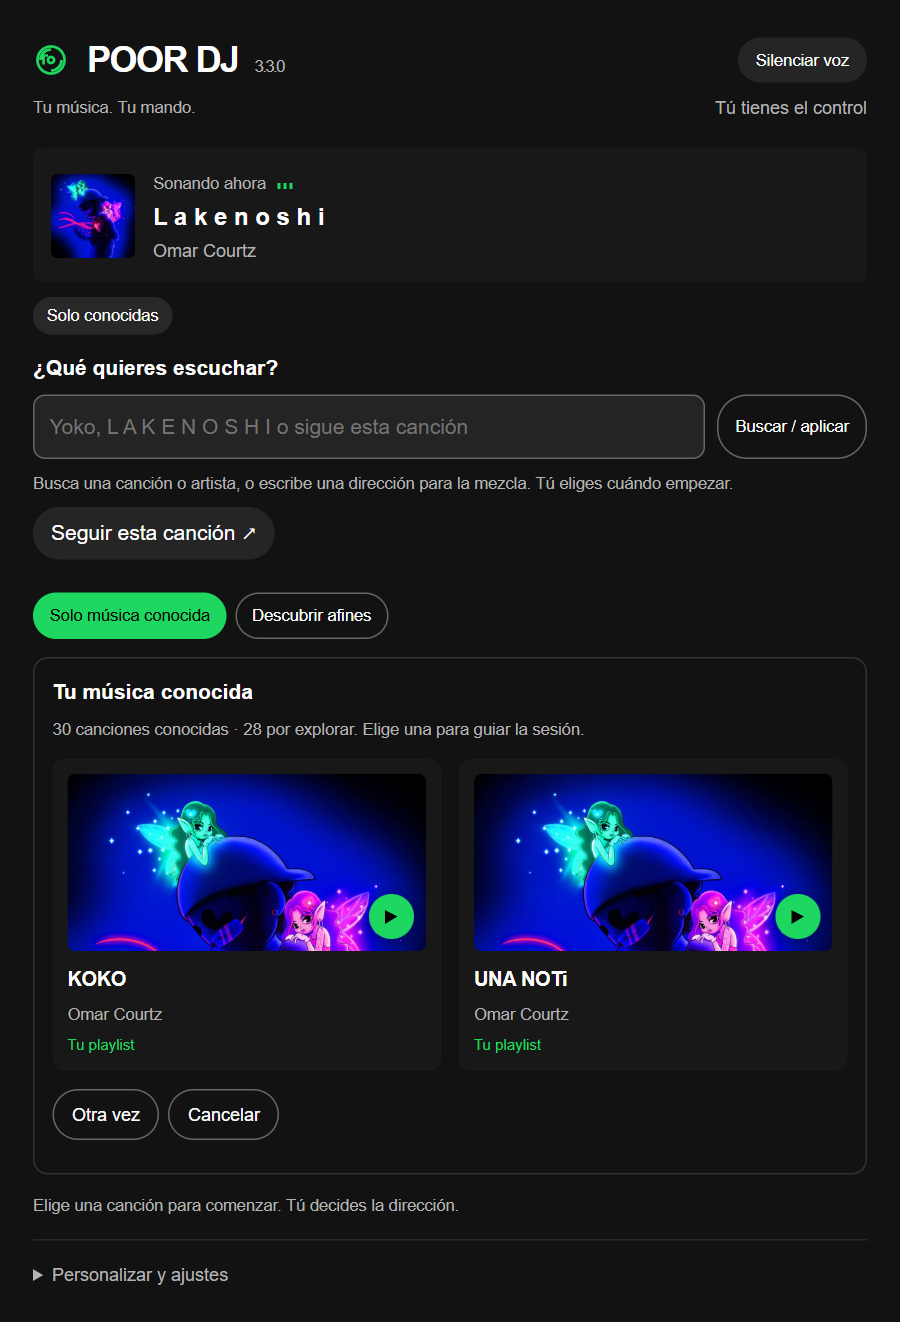
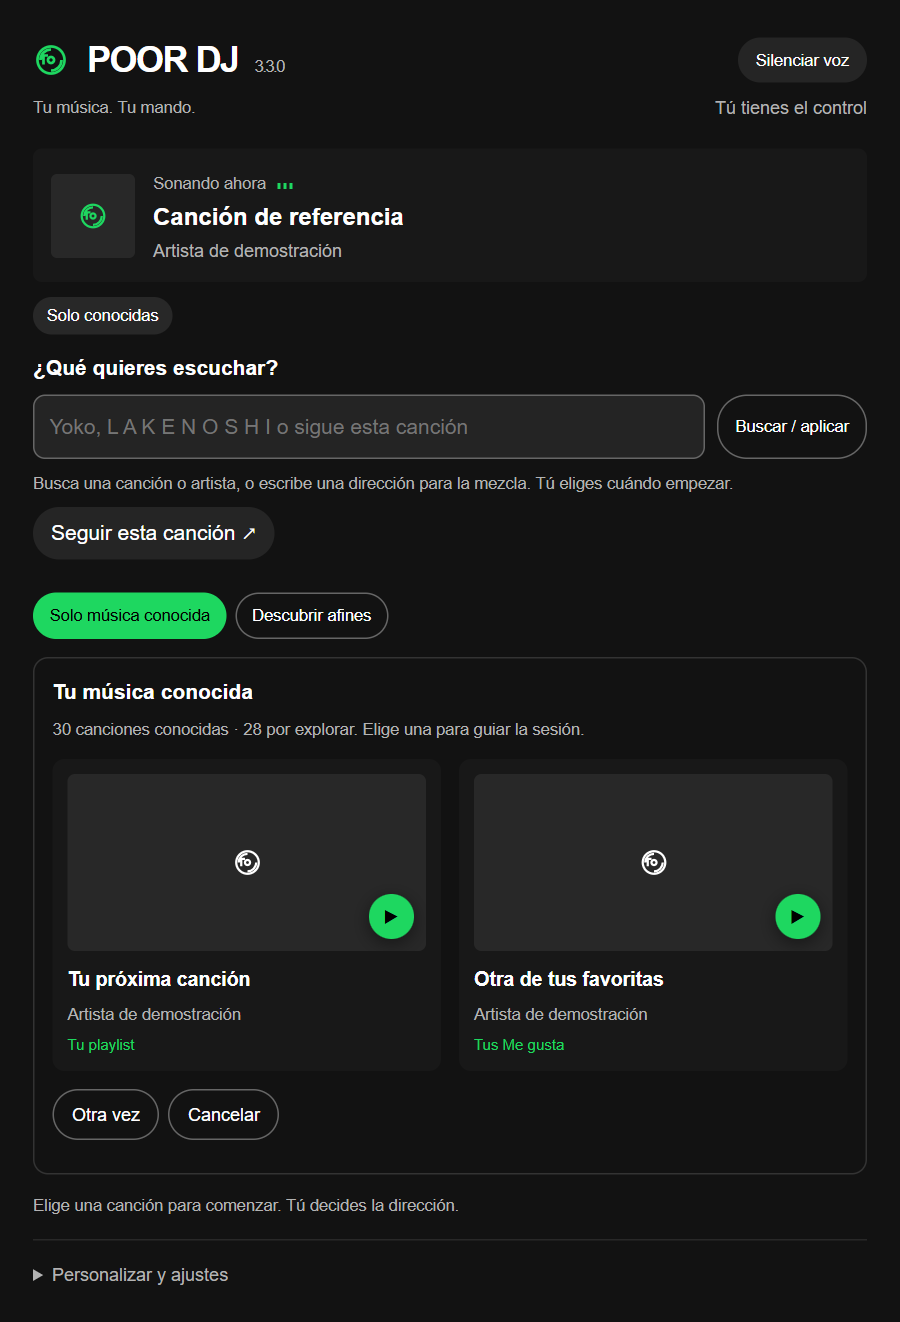
Document features and refresh current interface screenshots

Changed region(s): [[0.0622, 0.5582, 0.4978, 0.7753], [0.5289, 0.5582, 0.9333, 0.8064], [0.0311, 0.1241, 0.4667, 0.2171]]

diff --git a/README.md b/README.md
@@ -1,18 +1,78 @@
 # POOR DJ
 
-<img src="assets/mark.svg" width="56" height="56" alt="Símbolo de POOR DJ">
-
 **3.3.0 · MIT · local · sin dependencias adicionales**
 
 **Tu música. Tu mando.** Un DJ local para Spotify con Spicetify. Sigue lo que escuchas, busca canciones y artistas, y propone una mezcla que puedes dirigir por texto.
 
-![Panel POOR DJ — captura ilustrativa](preview.png)
+![POOR DJ 3.3.0: selección de música conocida](preview.png)
+
+Vista de la interfaz actual con datos de demostración. No es una captura de una cuenta de Spotify.
 
 - **Conocidas:** tarjetas de tus playlists, Me gusta y escuchas registradas, con su procedencia.
 - **Artistas:** Aleatorio combina mucho de ese artista con música afín; Artista usa únicamente su catálogo y colaboraciones. Guarda una playlist privada.
 - **Tú decides:** tu elección manual pausa el DJ; terminar devuelve la cola suspendida. Puedes descartar propuestas y cambiar la dirección.
 - **Voz local y subtítulos:** comentarios breves en español. La música espera mientras habla; si el cliente no ofrece voz, continúa normalmente.
 - **A tu gusto:** acentos, panel compacto y continuidad musical con transiciones nativas de Spotify.
+
+## Qué puedes hacer
+
+### Elegir cómo empieza la sesión
+
+Pulsa **Solo música conocida** para elegir entre dos canciones y ver de dónde vienen. **Otra vez** muestra otras opciones; al agotar la selección puedes reiniciarla. Abrir el panel o explorar las tarjetas no inicia música. **Seguir esta canción** comienza desde lo que está sonando y mantiene esa referencia durante la sesión.
+
+**Descubrir afines** permite ampliar la selección con candidatos relacionados con la referencia. El DJ considera afinidad, variedad de artistas, repetición reciente y, cuando están disponibles, datos de tempo, tonalidad y sonoridad. Si no hay candidatos compatibles, lo indica en lugar de completar la cola con canciones ajenas.
+
+### Buscar canciones y mezclar artistas
+
+Escribe un título o un artista en **¿Qué quieres escuchar?**. Cuando hay varias coincidencias, elige un resultado antes de cambiar la reproducción. Los resultados de artista abren dos opciones:
+
+| Modo | Qué incluye |
+| --- | --- |
+| **Aleatorio** | El artista como protagonista, acompañado de canciones afines. |
+| **Artista** | Solo canciones acreditadas al artista, incluidas colaboraciones. |
+
+La mezcla se guarda como **playlist privada** y puedes abrir la última playlist guardada desde el panel.
+
+![POOR DJ: modos Aleatorio y Artista](assets/artist-modes.png)
+
+### Dirigir el DJ con instrucciones
+
+Las órdenes se interpretan mediante reglas locales. Puedes combinar preferencias y revisar las etiquetas de instrucciones vigentes en el panel.
+
+| Ejemplo | Resultado |
+| --- | --- |
+| `solo conocidas y más variedad` | Limita la selección a música conocida y aumenta la variedad de artistas. |
+| `solo conocidas y sin Dillom` | Excluye ese artista de la selección de la sesión. |
+| `sigue esta canción` | Inicia desde la canción actual. |
+| `pon SIN UN PLAN (TEGOCALDERON) de Isma` | Busca la canción para reproducirla; una elección manual pausa el DJ. |
+| `otra sugerencia` | Renueva las sugerencias. |
+| `termina el DJ` | Termina la sesión y devuelve la cola suspendida. |
+| `restaura mi cola` | Solicita recuperar la cola guardada. |
+
+Los filtros de género, como `reggaetón y más variedad`, necesitan etiquetas musicales declaradas. Puedes etiquetar la playlist actual y la canción desde **Etiquetas musicales**. Una orden incompleta o contradictoria muestra una explicación antes de aplicar cambios.
+
+### Ajustar las propuestas sin perder tu cola
+
+Usa **Más como esta**, **No encaja**, **Este artista no, por hoy** o **Demasiado repetida**; **Deshacer** revierte el último voto. En **A continuación** puedes pedir otra sugerencia y fijar una propuesta. La referencia y las exclusiones pertenecen a la sesión.
+
+Una reproducción elegida manualmente pausa el DJ y retira sus propuestas. Suspender tu cola manual al iniciar es una opción desactivada por defecto. Al terminar, el DJ intenta devolver la cola suspendida; si la restauración queda incompleta, puedes volver a intentarlo. No modifica tus playlists existentes.
+
+### Voz, transiciones y personalización
+
+- **Voz local en español:** comentarios breves con subtítulos. La música espera mientras habla; puedes silenciar la voz. Si no hay una voz local compatible o reproduces en un dispositivo remoto, conserva los subtítulos.
+- **Continuidad musical:** tres niveles y solapamiento nativo de Spotify de 0, 2, 4 o 6 segundos. Puedes aplicar el ajuste y restaurar el anterior. Este cambio también afecta a Spotify fuera del DJ; la extensión no hace fades de volumen propios ni adelanta el final de las canciones.
+- **Presentación:** verde Spotify, colores del tema, azul, violeta o rosa; control compacto y panel compacto.
+- **Preferencias:** entre una y tres canciones pendientes, contenido explícito y aprendizaje de la escucha configurables.
+
+### Biblioteca y datos locales
+
+**Mi biblioteca y fuentes** permite actualizar Me gusta y playlists, y seleccionar una playlist para leer hasta 300 canciones. La familiaridad distingue playlist, escucha registrada y votos; Spotify no proporciona aquí todo tu historial ni estadísticas completas.
+
+En **Mis datos** puedes exportar e importar el perfil, guardar la sesión, borrar el aprendizaje o vaciar la caché acústica. El perfil y la lógica del DJ permanecen en el cliente. Las búsquedas y consultas musicales usan tu sesión de Spotify.
+
+## Requisitos y límites
+
+Necesitas Spotify de escritorio con Spicetify instalado. La versión 3.3.0 se comprobó en Windows con Spotify 1.3.3.264 y Spicetify 2.45.3; consulta [VALIDATION.md](VALIDATION.md) para el alcance de las pruebas. La disponibilidad de voz, datos acústicos y ajustes nativos depende del cliente. No mide lo «comercial» de una canción ni inventa géneros o BPM ausentes.
 
 Sin cuentas extra, claves, hosting ni modelos de IA. Las órdenes usan reglas locales; las búsquedas y los datos musicales vienen de tu sesión de Spotify. No lee tus estadísticas completas ni garantiza género/BPM cuando faltan datos.
 
